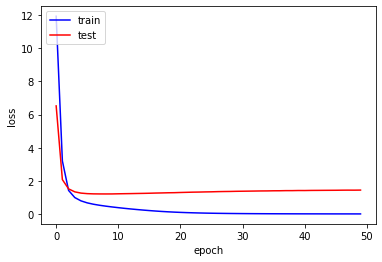
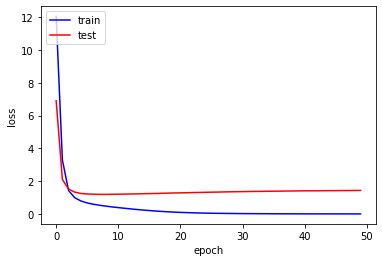
rebuilding site 2019년 9월 13일 금요일 01시 59분 02초 KST

diff --git a/post/latent_factor_model/index.html b/post/latent_factor_model/index.html
@@ -136,8 +136,7 @@
 
 <h2 id="데이터-수집-data-collection">데이터 수집 (Data Collection)</h2>
 
-<p>이제는 데이터 수집도 일이 되었다.<br />
-데이터를 다운로드하고 파일로 저장하고 데이터프레임으로 변환하는 작업이 필요하다.</p>
+<p>데이터를 다운로드하고 파일로 저장하고 데이터프레임으로 변환하는 작업이 필요하다.</p>
 
 <p>우리가 사용할 무비렌즈 데이터셋은 다음과 같다.</p>
 
@@ -177,83 +176,33 @@ Action, Adventure, Animation, Children&rsquo;s, Comedy, Comedy, Documentary, Dra
 <p>⚙ 엔지니어</p>
 
 <blockquote>
-<p>데이터를 다운로드 하고 <code>/tmp/movielens-data/</code> 에 저장하자</p>
+<p>데이터를 다운로드 하고 데이터프레임으로 변환하자</p>
 </blockquote>
-<div class="highlight"><pre style="color:#f8f8f2;background-color:#272822;-moz-tab-size:4;-o-tab-size:4;tab-size:4"><code class="language-python" data-lang="python"><span style="color:#f92672">import</span> sys
-<span style="color:#f92672">import</span> time
-
+<div class="highlight"><pre style="color:#f8f8f2;background-color:#272822;-moz-tab-size:4;-o-tab-size:4;tab-size:4"><code class="language-python" data-lang="python"><span style="color:#f92672">from</span> tensorflow.keras.utils <span style="color:#f92672">import</span> get_file
 <span style="color:#f92672">import</span> os
-<span style="color:#f92672">import</span> tempfile
-<span style="color:#f92672">import</span> zipfile
-<span style="color:#f92672">from</span> six.moves <span style="color:#f92672">import</span> urllib
-<span style="color:#f92672">import</span> tensorflow <span style="color:#f92672">as</span> tf
 
-<span style="color:#66d9ef">def</span> <span style="color:#a6e22e">_progresshook</span>(count, block_size, total_size):
-    <span style="color:#66d9ef">global</span> start_time
-    <span style="color:#66d9ef">if</span> count <span style="color:#f92672">==</span> <span style="color:#ae81ff">0</span>:
-        start_time <span style="color:#f92672">=</span> time<span style="color:#f92672">.</span>time()
-        <span style="color:#66d9ef">return</span>
-    duration <span style="color:#f92672">=</span> time<span style="color:#f92672">.</span>time() <span style="color:#f92672">-</span> start_time
-    progress_size <span style="color:#f92672">=</span> int(count <span style="color:#f92672">*</span> block_size)
-    speed <span style="color:#f92672">=</span> int(progress_size <span style="color:#f92672">/</span> (<span style="color:#ae81ff">1024</span> <span style="color:#f92672">*</span> duration))
-    percent <span style="color:#f92672">=</span> int(count <span style="color:#f92672">*</span> block_size <span style="color:#f92672">*</span> <span style="color:#ae81ff">100</span> <span style="color:#f92672">/</span> total_size)
-    sys<span style="color:#f92672">.</span>stdout<span style="color:#f92672">.</span>write(<span style="color:#e6db74">&#34;</span><span style="color:#ae81ff">\r</span><span style="color:#e6db74">...</span><span style="color:#e6db74">%d%%</span><span style="color:#e6db74">, </span><span style="color:#e6db74">%d</span><span style="color:#e6db74"> MB, </span><span style="color:#e6db74">%d</span><span style="color:#e6db74"> KB/s, </span><span style="color:#e6db74">%d</span><span style="color:#e6db74"> seconds passed&#34;</span> <span style="color:#f92672">%</span>
-                    (percent, progress_size <span style="color:#f92672">/</span> (<span style="color:#ae81ff">1024</span> <span style="color:#f92672">*</span> <span style="color:#ae81ff">1024</span>), speed, duration))
-    sys<span style="color:#f92672">.</span>stdout<span style="color:#f92672">.</span>flush()
+zip_fname <span style="color:#f92672">=</span> <span style="color:#e6db74">&#39;ml-latest-small.zip&#39;</span>
+data_dir <span style="color:#f92672">=</span> <span style="color:#e6db74">&#39;ml-latest-small&#39;</span>
+ratings_fname <span style="color:#f92672">=</span> <span style="color:#e6db74">&#39;ratings.csv&#39;</span>
+movies_fname <span style="color:#f92672">=</span> <span style="color:#e6db74">&#39;movies.csv&#39;</span>
+origin <span style="color:#f92672">=</span> <span style="color:#e6db74">&#39;http://files.grouplens.org/datasets/movielens/ml-latest-small.zip&#39;</span>
+path <span style="color:#f92672">=</span> get_file(zip_fname, origin, extract<span style="color:#f92672">=</span>True)
 
-DATA_DIR <span style="color:#f92672">=</span> <span style="color:#e6db74">&#34;/tmp/movielens-data/&#34;</span>
-DATA_SET <span style="color:#f92672">=</span> <span style="color:#e6db74">&#39;ml-latest-small&#39;</span>
-RATINGS_FILE <span style="color:#f92672">=</span> <span style="color:#e6db74">&#34;ratings.csv&#34;</span>
-MOVIES_FILE <span style="color:#f92672">=</span> <span style="color:#e6db74">&#34;movies.csv&#34;</span>
-DATA_URL <span style="color:#f92672">=</span> <span style="color:#e6db74">&#34;http://files.grouplens.org/datasets/movielens/&#34;</span>
+path <span style="color:#f92672">=</span> path<span style="color:#f92672">.</span>replace(zip_fname, data_dir)
+ratings_path <span style="color:#f92672">=</span> os<span style="color:#f92672">.</span>path<span style="color:#f92672">.</span>join(path, ratings_fname)
+movies_path <span style="color:#f92672">=</span> os<span style="color:#f92672">.</span>path<span style="color:#f92672">.</span>join(path, movies_fname)
 
-data_subdir <span style="color:#f92672">=</span> os<span style="color:#f92672">.</span>path<span style="color:#f92672">.</span>join(DATA_DIR, DATA_SET)
-expected_files <span style="color:#f92672">=</span> [<span style="color:#e6db74">&#34;{}.zip&#34;</span><span style="color:#f92672">.</span>format(DATA_SET), RATINGS_FILE, MOVIES_FILE]
-
-tf<span style="color:#f92672">.</span>io<span style="color:#f92672">.</span>gfile<span style="color:#f92672">.</span>makedirs(data_subdir)
-<span style="color:#66d9ef">if</span> set(expected_files)<span style="color:#f92672">.</span>intersection(
-    tf<span style="color:#f92672">.</span>io<span style="color:#f92672">.</span>gfile<span style="color:#f92672">.</span>listdir(data_subdir)) <span style="color:#f92672">==</span> set(expected_files):
-    <span style="color:#66d9ef">print</span>(<span style="color:#e6db74">&#34;Dataset {} has already been downloaded&#34;</span><span style="color:#f92672">.</span>format(DATA_SET))
-<span style="color:#66d9ef">else</span>:
-    tf<span style="color:#f92672">.</span>io<span style="color:#f92672">.</span>gfile<span style="color:#f92672">.</span>makedirs(data_subdir)
-
-    url <span style="color:#f92672">=</span> <span style="color:#e6db74">&#34;{}{}.zip&#34;</span><span style="color:#f92672">.</span>format(DATA_URL, DATA_SET)
-    temp_dir <span style="color:#f92672">=</span> tempfile<span style="color:#f92672">.</span>mkdtemp()
-
-    <span style="color:#66d9ef">try</span>:
-        zip_path <span style="color:#f92672">=</span> os<span style="color:#f92672">.</span>path<span style="color:#f92672">.</span>join(temp_dir, <span style="color:#e6db74">&#34;{}.zip&#34;</span><span style="color:#f92672">.</span>format(DATA_SET))
-        zip_path, _ <span style="color:#f92672">=</span> urllib<span style="color:#f92672">.</span>request<span style="color:#f92672">.</span>urlretrieve(url, zip_path, _progresshook)
-        statinfo <span style="color:#f92672">=</span> os<span style="color:#f92672">.</span>stat(zip_path)
-        <span style="color:#66d9ef">print</span>()
-        <span style="color:#66d9ef">print</span>(<span style="color:#e6db74">&#34;Successfully downloaded {} {} bytes&#34;</span><span style="color:#f92672">.</span>format(zip_path, statinfo<span style="color:#f92672">.</span>st_size))
-
-        zipfile<span style="color:#f92672">.</span>ZipFile(zip_path, <span style="color:#e6db74">&#34;r&#34;</span>)<span style="color:#f92672">.</span>extractall(temp_dir)
-
-        working_dir <span style="color:#f92672">=</span> os<span style="color:#f92672">.</span>path<span style="color:#f92672">.</span>join(temp_dir, DATA_SET)
-
-        tf<span style="color:#f92672">.</span>io<span style="color:#f92672">.</span>gfile<span style="color:#f92672">.</span>copy(os<span style="color:#f92672">.</span>path<span style="color:#f92672">.</span>join(working_dir, <span style="color:#e6db74">&#34;ratings.csv&#34;</span>), os<span style="color:#f92672">.</span>path<span style="color:#f92672">.</span>join(temp_dir, RATINGS_FILE))
-        tf<span style="color:#f92672">.</span>io<span style="color:#f92672">.</span>gfile<span style="color:#f92672">.</span>copy(os<span style="color:#f92672">.</span>path<span style="color:#f92672">.</span>join(working_dir, <span style="color:#e6db74">&#34;movies.csv&#34;</span>), os<span style="color:#f92672">.</span>path<span style="color:#f92672">.</span>join(temp_dir, MOVIES_FILE))
-        
-        tf<span style="color:#f92672">.</span>io<span style="color:#f92672">.</span>gfile<span style="color:#f92672">.</span>rmtree(working_dir)
-
-        <span style="color:#66d9ef">for</span> fname <span style="color:#f92672">in</span> tf<span style="color:#f92672">.</span>io<span style="color:#f92672">.</span>gfile<span style="color:#f92672">.</span>listdir(temp_dir):
-            <span style="color:#66d9ef">if</span> <span style="color:#f92672">not</span> tf<span style="color:#f92672">.</span>io<span style="color:#f92672">.</span>gfile<span style="color:#f92672">.</span>exists(os<span style="color:#f92672">.</span>path<span style="color:#f92672">.</span>join(data_subdir, fname)):
-                tf<span style="color:#f92672">.</span>io<span style="color:#f92672">.</span>gfile<span style="color:#f92672">.</span>copy(os<span style="color:#f92672">.</span>path<span style="color:#f92672">.</span>join(temp_dir, fname),
-                                 os<span style="color:#f92672">.</span>path<span style="color:#f92672">.</span>join(data_subdir, fname))
-            <span style="color:#66d9ef">else</span>:
-                <span style="color:#66d9ef">print</span>(<span style="color:#e6db74">&#34;Skipping copy of {}, as it already exists in the &#34;</span>
-                             <span style="color:#e6db74">&#34;destination folder.&#34;</span><span style="color:#f92672">.</span>format(fname))
-    <span style="color:#66d9ef">finally</span>:
-        tf<span style="color:#f92672">.</span>io<span style="color:#f92672">.</span>gfile<span style="color:#f92672">.</span>rmtree(temp_dir)</code></pre></div>
-<pre><code>...100%, 0 MB, 733 KB/s, 1 seconds passed
-Successfully downloaded /tmp/tmpstg1o_3y/ml-latest-small.zip 978202 bytes
+<span style="color:#66d9ef">print</span>(ratings_path)
+<span style="color:#66d9ef">print</span>(movies_path)</code></pre></div>
+<pre><code>/home/dataman/.keras/datasets/ml-latest-small/ratings.csv
+/home/dataman/.keras/datasets/ml-latest-small/movies.csv
 </code></pre>
 
 <h3 id="ratings-데이터프레임">Ratings 데이터프레임</h3>
 <div class="highlight"><pre style="color:#f8f8f2;background-color:#272822;-moz-tab-size:4;-o-tab-size:4;tab-size:4"><code class="language-python" data-lang="python"><span style="color:#f92672">import</span> pandas <span style="color:#f92672">as</span> pd
 <span style="color:#f92672">import</span> numpy <span style="color:#f92672">as</span> np
 
-ratings_df <span style="color:#f92672">=</span> pd<span style="color:#f92672">.</span>read_csv(os<span style="color:#f92672">.</span>path<span style="color:#f92672">.</span>join(data_subdir, RATINGS_FILE))
+ratings_df <span style="color:#f92672">=</span> pd<span style="color:#f92672">.</span>read_csv(ratings_path)
 ratings_df<span style="color:#f92672">.</span>head()</code></pre></div>
 <div>
 <style scoped>
@@ -320,7 +269,7 @@ ratings_df<span style="color:#f92672">.</span>head()</code></pre></div>
 </div>
 
 <h3 id="movies-데이터프레임">Movies 데이터프레임</h3>
-<div class="highlight"><pre style="color:#f8f8f2;background-color:#272822;-moz-tab-size:4;-o-tab-size:4;tab-size:4"><code class="language-python" data-lang="python">movies_df <span style="color:#f92672">=</span> pd<span style="color:#f92672">.</span>read_csv(os<span style="color:#f92672">.</span>path<span style="color:#f92672">.</span>join(data_subdir, MOVIES_FILE))
+<div class="highlight"><pre style="color:#f8f8f2;background-color:#272822;-moz-tab-size:4;-o-tab-size:4;tab-size:4"><code class="language-python" data-lang="python">movies_df <span style="color:#f92672">=</span> pd<span style="color:#f92672">.</span>read_csv(movies_path)
 movies_df<span style="color:#f92672">.</span>head()</code></pre></div>
 <div>
 <style scoped>
@@ -1597,7 +1546,7 @@ item_embedding <span style="color:#f92672">=</span> Embedding(n_items, n_items_l
 user_embedding <span style="color:#f92672">=</span> Embedding(n_users, n_users_latent_factors, <span style="color:#75715e"># (4X2) Latent factor</span>
                            name<span style="color:#f92672">=</span><span style="color:#e6db74">&#39;user_embedding&#39;</span>)(user_input)</code></pre></div>
 <pre><code>WARNING: Logging before flag parsing goes to stderr.
-W0908 01:29:27.181608 140414091106112 deprecation.py:506] From /home/dataman/anaconda3/lib/python3.7/site-packages/tensorflow/python/keras/initializers.py:119: calling RandomUniform.__init__ (from tensorflow.python.ops.init_ops) with dtype is deprecated and will be removed in a future version.
+W0913 01:34:07.430426 139839168730944 deprecation.py:506] From /home/dataman/anaconda3/lib/python3.7/site-packages/tensorflow/python/keras/initializers.py:119: calling RandomUniform.__init__ (from tensorflow.python.ops.init_ops) with dtype is deprecated and will be removed in a future version.
 Instructions for updating:
 Call initializer instance with the dtype argument instead of passing it to the constructor
 </code></pre>
@@ -1631,7 +1580,7 @@ plt<span style="color:#f92672">.</span>plot(hist<span style="color:#f92672">.</s
 plt<span style="color:#f92672">.</span>xlabel(<span style="color:#e6db74">&#39;epoch&#39;</span>)
 plt<span style="color:#f92672">.</span>ylabel(<span style="color:#e6db74">&#39;loss&#39;</span>)
 plt<span style="color:#f92672">.</span>show()</code></pre></div>
-<pre><code>loss:  0.030799411237239838
+<pre><code>loss:  0.030767172574996948
 </code></pre>
 
 <p><img src="output_49_1.png" alt="png" /></p>
@@ -1672,38 +1621,38 @@ pd<span style="color:#f92672">.</span>DataFrame(R_hat)</code></pre></div>
   <tbody>
     <tr>
       <td>0</td>
-      <td>4.999641</td>
-      <td>4.521753</td>
-      <td>1.011094</td>
-      <td>0.982110</td>
+      <td>4.999623</td>
+      <td>4.522830</td>
+      <td>1.008499</td>
+      <td>0.986881</td>
     </tr>
     <tr>
       <td>1</td>
-      <td>4.742187</td>
-      <td>4.289894</td>
-      <td>1.008932</td>
-      <td>0.976598</td>
+      <td>4.741117</td>
+      <td>4.289957</td>
+      <td>1.006786</td>
+      <td>0.981370</td>
     </tr>
     <tr>
       <td>2</td>
-      <td>5.234704</td>
-      <td>4.734329</td>
-      <td>1.057725</td>
-      <td>1.027466</td>
+      <td>5.235123</td>
+      <td>4.735589</td>
+      <td>1.041489</td>
+      <td>1.020268</td>
     </tr>
     <tr>
       <td>3</td>
-      <td>0.999859</td>
-      <td>1.003756</td>
-      <td>5.234326</td>
-      <td>4.740231</td>
+      <td>1.000833</td>
+      <td>1.003219</td>
+      <td>5.234733</td>
+      <td>4.739758</td>
     </tr>
     <tr>
       <td>4</td>
-      <td>1.001166</td>
-      <td>0.995094</td>
-      <td>4.736576</td>
-      <td>4.290798</td>
+      <td>1.001417</td>
+      <td>0.994072</td>
+      <td>4.737130</td>
+      <td>4.290676</td>
     </tr>
   </tbody>
 </table>
@@ -1711,7 +1660,7 @@ pd<span style="color:#f92672">.</span>DataFrame(R_hat)</code></pre></div>
 <div class="highlight"><pre style="color:#f8f8f2;background-color:#272822;-moz-tab-size:4;-o-tab-size:4;tab-size:4"><code class="language-python" data-lang="python"><span style="color:#66d9ef">print</span>(<span style="color:#e6db74">&#39;뷰티 인사이드에 대한 Bob의 예상 별점은 {:.1f}&#39;</span><span style="color:#f92672">.</span>format(R_hat[<span style="color:#ae81ff">0</span>][<span style="color:#ae81ff">1</span>]))
 <span style="color:#66d9ef">print</span>(<span style="color:#e6db74">&#39;러브 스토리에 대한 Carol의 예상 별점은 {:.1f} 이다.&#39;</span><span style="color:#f92672">.</span>format(R_hat[<span style="color:#ae81ff">2</span>][<span style="color:#ae81ff">2</span>]))</code></pre></div>
 <pre><code>뷰티 인사이드에 대한 Bob의 예상 별점은 4.5
-러브 스토리에 대한 Carol의 예상 별점은 1.1 이다.
+러브 스토리에 대한 Carol의 예상 별점은 1.0 이다.
 </code></pre>
 
 <p>⚙ 엔지니어</p>
@@ -1794,8 +1743,8 @@ test_df <span style="color:#f92672">=</span> ratings_df[<span style="color:#f926
 
 <span style="color:#66d9ef">print</span>(<span style="color:#e6db74">&#39;shape of train data is &#39;</span>,train_df<span style="color:#f92672">.</span>shape)
 <span style="color:#66d9ef">print</span>(<span style="color:#e6db74">&#39;shape of test data is &#39;</span>,test_df<span style="color:#f92672">.</span>shape)</code></pre></div>
-<pre><code>shape of train data is  (80619, 4)
-shape of test data is  (20217, 4)
+<pre><code>shape of train data is  (80544, 4)
+shape of test data is  (20292, 4)
 </code></pre>
 
 <h3 id="임베딩-embedding-1">임베딩 (Embedding)</h3>
@@ -1845,8 +1794,8 @@ plt<span style="color:#f92672">.</span>xlabel(<span style="color:#e6db74">&#39;e
 plt<span style="color:#f92672">.</span>ylabel(<span style="color:#e6db74">&#39;loss&#39;</span>)
 plt<span style="color:#f92672">.</span>legend([<span style="color:#e6db74">&#39;train&#39;</span>, <span style="color:#e6db74">&#39;test&#39;</span>], loc<span style="color:#f92672">=</span><span style="color:#e6db74">&#39;upper left&#39;</span>)
 plt<span style="color:#f92672">.</span>show()</code></pre></div>
-<pre><code>train loss:  0.015208676693554088
-test loss:  1.4508242225378092
+<pre><code>train loss:  0.015632702463206954
+test loss:  1.4420501856603685
 </code></pre>
 
 <p><img src="output_64_1.png" alt="png" /></p>
@@ -1878,7 +1827,7 @@ movie_v <span style="color:#f92672">=</span> np<span style="color:#f92672">.</sp
 predict <span style="color:#f92672">=</span> model<span style="color:#f92672">.</span>predict([user_v, movie_v])
 
 <span style="color:#66d9ef">print</span>(<span style="color:#e6db74">&#39;영화 {} 에 대한 사용자 ID {}님의 예상 별점은 {:.1f} 입니다.&#39;</span><span style="color:#f92672">.</span>format(movie_title, userId, predict[<span style="color:#ae81ff">0</span>][<span style="color:#ae81ff">0</span>]))</code></pre></div>
-<pre><code>영화 William Shakespeare's Romeo + Juliet (1996) 에 대한 사용자 ID 214님의 예상 별점은 3.9 입니다.
+<pre><code>영화 William Shakespeare's Romeo + Juliet (1996) 에 대한 사용자 ID 214님의 예상 별점은 4.0 입니다.
 </code></pre>
 		</div>
 		<footer class="post__footer">
